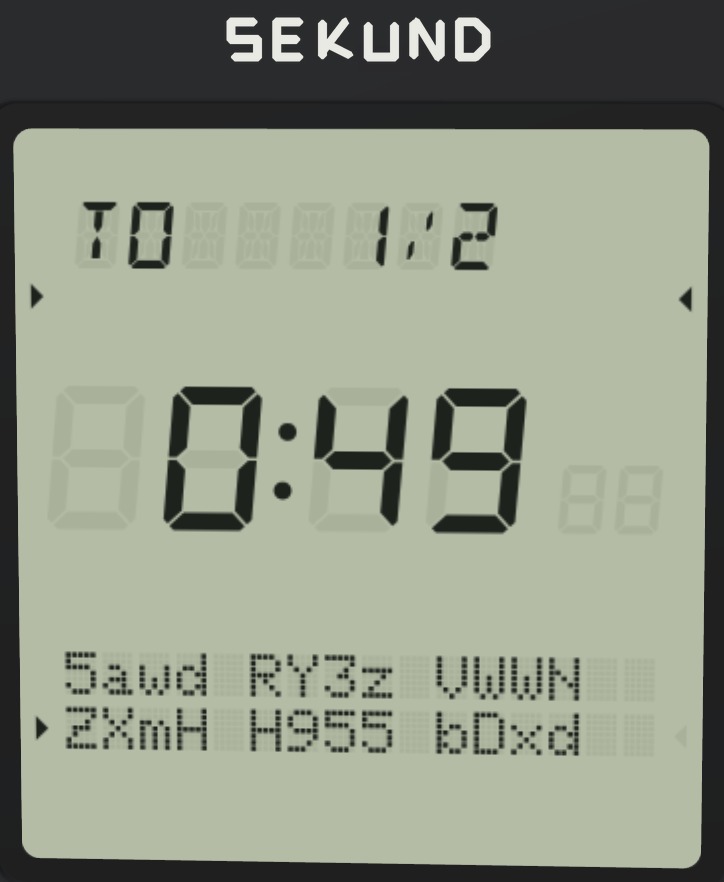
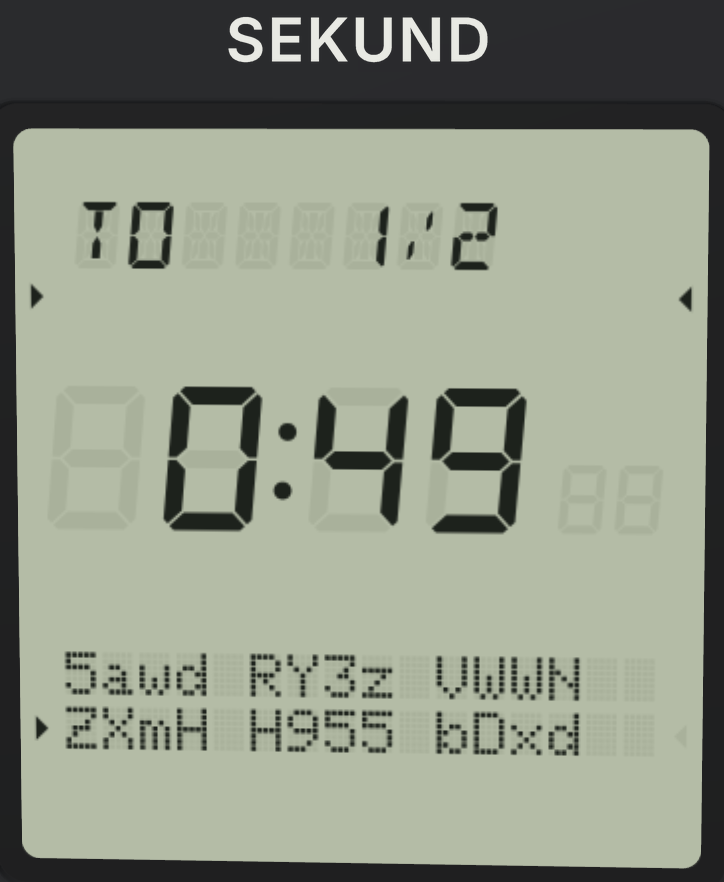
Set the SEKUND wordmark in Inter SemiBold everywhere and light the hero LCD
Goran's picks. The wordmark is Inter 600 with +4% tracking, converted to
outlines from the self-hosted @fontsource/inter files (deck/src/brand/
wordmark-inter.ts, WORDMARK = INTER); the same outlines replace the v2
segment mark on the watch-sim face, the 3D bezel, its chrome and the
companion logo. The LCD crops on slides 3/4/9 and the bezel mark layers of
every illustration are re-composited with it. ILLUSTRATION = BROW_LIT: only
the resin is dithered, the LCD panel stays crisp.

Changed region(s): [[0.3039, 0.0, 0.6989, 0.0918]]

diff --git a/watch-sim/src/face/wordmark.ts b/watch-sim/src/face/wordmark.ts
@@ -1,4 +1,4 @@
-/** SEKUND wordmark v2 (DESIGN.md §1.1). Drawn, never set in a font. */
-export const WORDMARK_VIEWBOX = "0 0 606 152"
+/** SEKUND wordmark: Inter SemiBold (600) set as text with +4% tracking, converted to outlines from the self-hosted @fontsource/inter files. No cuts, slants or display gaps. Same outlines as deck/src/brand/wordmark-inter.ts; generated by internal/pitch-deck-v3-assets/inter-wordmark.py, do not edit by hand. */
+export const WORDMARK_VIEWBOX = "0 0 600 112"
 export const WORDMARK_PATH =
-  "M43.90,26.00 L49.05,32.00 L89.05,32.00 L95.90,26.00 L90.74,20.00 L50.74,20.00 Z M40.48,29.00 L33.63,35.00 L29.14,67.00 L34.29,73.00 L41.14,67.00 L45.63,35.00 Z M36.87,76.00 L42.03,82.00 L82.03,82.00 L88.87,76.00 L83.71,70.00 L43.71,70.00 Z M91.45,79.00 L84.61,85.00 L80.11,117.00 L85.26,123.00 L92.11,117.00 L96.61,85.00 Z M29.84,126.00 L35.00,132.00 L75.00,132.00 L81.84,126.00 L76.69,120.00 L36.69,120.00 Z M139.90,26.00 L145.05,32.00 L185.05,32.00 L191.90,26.00 L186.74,20.00 L146.74,20.00 Z M136.48,29.00 L129.63,35.00 L125.14,67.00 L130.29,73.00 L137.14,67.00 L141.63,35.00 Z M132.87,76.00 L138.03,82.00 L178.03,82.00 L184.87,76.00 L179.71,70.00 L139.71,70.00 Z M129.45,79.00 L122.61,85.00 L118.11,117.00 L123.26,123.00 L130.11,117.00 L134.61,85.00 Z M125.84,126.00 L131.00,132.00 L171.00,132.00 L177.84,126.00 L172.69,120.00 L132.69,120.00 Z M232.48,29.00 L225.63,35.00 L221.14,67.00 L226.29,73.00 L233.14,67.00 L237.63,35.00 Z M225.45,79.00 L218.61,85.00 L214.11,117.00 L219.26,123.00 L226.11,117.00 L230.61,85.00 Z M239.12,65.81 L247.49,66.44 L285.68,37.07 L287.50,28.61 L279.13,27.98 L240.93,57.35 Z M236.25,86.19 L235.69,94.65 L265.63,124.02 L274.18,123.39 L274.74,114.93 L244.80,85.56 Z M328.48,29.00 L321.63,35.00 L310.11,117.00 L315.26,123.00 L322.11,117.00 L333.63,35.00 Z M317.84,126.00 L323.00,132.00 L363.00,132.00 L369.84,126.00 L364.69,120.00 L324.69,120.00 Z M386.48,29.00 L379.63,35.00 L368.11,117.00 L373.26,123.00 L380.11,117.00 L391.63,35.00 Z M424.48,29.00 L417.63,35.00 L406.11,117.00 L411.26,123.00 L418.11,117.00 L429.63,35.00 Z M482.48,29.00 L475.63,35.00 L464.11,117.00 L469.26,123.00 L476.11,117.00 L487.63,35.00 Z M430.83,39.49 L427.50,47.69 L455.02,110.33 L462.91,112.51 L466.25,104.31 L438.72,41.67 Z M520.48,29.00 L513.63,35.00 L502.11,117.00 L507.26,123.00 L514.11,117.00 L525.63,35.00 Z M523.90,26.00 L529.05,32.00 L545.05,32.00 L551.90,26.00 L546.74,20.00 L530.74,20.00 Z M556.72,28.12 L555.53,36.61 L565.22,47.88 L573.70,47.88 L574.89,39.39 L565.21,28.12 Z M575.10,53.00 L568.26,59.00 L563.48,93.00 L568.64,99.00 L575.48,93.00 L580.26,59.00 Z M565.80,104.12 L557.31,104.12 L544.46,115.39 L543.26,123.88 L551.75,123.88 L564.60,112.61 Z M537.84,126.00 L532.69,120.00 L516.69,120.00 L509.84,126.00 L515.00,132.00 L531.00,132.00 Z"
+  "M44.79,107.54 L42.50,107.51 L40.27,107.40 L38.10,107.22 L35.99,106.96 L33.94,106.64 L31.96,106.24 L30.03,105.77 L28.17,105.22 L26.37,104.61 L24.62,103.92 L22.95,103.16 L21.35,102.34 L19.83,101.45 L18.37,100.49 L17.00,99.47 L15.70,98.39 L14.47,97.23 L13.32,96.02 L12.24,94.73 L11.23,93.38 L10.31,91.97 L9.48,90.50 L8.73,88.97 L8.08,87.38 L7.51,85.73 L7.03,84.02 L6.64,82.26 L6.34,80.43 L6.12,78.55 L6.00,76.60 L23.65,76.60 L23.77,77.63 L23.93,78.63 L24.14,79.59 L24.40,80.51 L24.71,81.40 L25.06,82.26 L25.46,83.08 L25.91,83.86 L26.40,84.61 L26.94,85.33 L27.52,86.01 L28.14,86.65 L28.79,87.26 L29.48,87.84 L30.21,88.37 L30.97,88.88 L31.77,89.34 L32.61,89.77 L33.48,90.17 L34.39,90.53 L35.33,90.86 L36.28,91.15 L37.26,91.40 L38.26,91.63 L39.27,91.81 L40.31,91.97 L41.37,92.09 L42.44,92.17 L43.54,92.22 L44.66,92.24 L45.83,92.22 L46.97,92.17 L48.08,92.08 L49.16,91.95 L50.22,91.79 L51.25,91.59 L52.25,91.35 L53.23,91.08 L54.17,90.77 L55.09,90.43 L55.98,90.05 L56.83,89.65 L57.63,89.21 L58.40,88.75 L59.13,88.26 L59.82,87.74 L60.47,87.19 L61.08,86.61 L61.64,86.00 L62.17,85.36 L62.66,84.70 L63.09,84.02 L63.48,83.32 L63.81,82.59 L64.09,81.85 L64.32,81.08 L64.50,80.30 L64.62,79.49 L64.70,78.66 L64.72,77.81 L64.70,77.05 L64.63,76.31 L64.52,75.60 L64.37,74.91 L64.16,74.26 L63.92,73.62 L63.62,73.02 L63.29,72.44 L62.90,71.89 L62.48,71.37 L62.01,70.87 L61.50,70.38 L60.96,69.91 L60.39,69.45 L59.78,69.01 L59.13,68.59 L58.44,68.18 L57.72,67.78 L56.96,67.40 L56.17,67.04 L55.34,66.69 L54.49,66.35 L53.61,66.01 L52.70,65.69 L51.76,65.37 L50.80,65.06 L49.81,64.76 L48.79,64.47 L47.74,64.19 L46.67,63.92 L35.33,60.97 L32.87,60.29 L30.53,59.55 L28.30,58.74 L26.17,57.86 L24.16,56.92 L22.26,55.92 L20.47,54.84 L18.79,53.71 L17.22,52.50 L15.77,51.23 L14.43,49.89 L13.24,48.47 L12.19,46.96 L11.28,45.37 L10.51,43.70 L9.87,41.95 L9.38,40.11 L9.03,38.20 L8.82,36.20 L8.75,34.12 L8.80,32.37 L8.94,30.67 L9.18,29.00 L9.51,27.39 L9.94,25.82 L10.47,24.29 L11.09,22.80 L11.80,21.36 L12.61,19.97 L13.52,18.62 L14.50,17.32 L15.56,16.08 L16.69,14.90 L17.89,13.78 L19.15,12.72 L20.49,11.72 L21.90,10.78 L23.37,9.90 L24.92,9.08 L26.54,8.32 L28.21,7.62 L29.93,7.00 L31.69,6.45 L33.50,5.97 L35.35,5.57 L37.24,5.24 L39.18,4.99 L41.16,4.80 L43.19,4.69 L45.26,4.66 L47.37,4.69 L49.43,4.81 L51.43,4.99 L53.38,5.25 L55.28,5.58 L57.12,5.99 L58.92,6.47 L60.66,7.02 L62.35,7.65 L63.99,8.35 L65.56,9.12 L67.07,9.94 L68.50,10.82 L69.87,11.75 L71.16,12.74 L72.38,13.79 L73.54,14.90 L74.62,16.06 L75.63,17.28 L76.57,18.55 L77.43,19.87 L78.21,21.23 L78.90,22.62 L79.50,24.05 L80.02,25.51 L80.45,27.01 L80.79,28.55 L81.05,30.13 L81.22,31.74 L81.30,33.38 L63.92,33.38 L63.74,32.12 L63.48,30.92 L63.12,29.78 L62.68,28.70 L62.15,27.67 L61.53,26.70 L60.83,25.79 L60.03,24.94 L59.15,24.15 L58.18,23.42 L57.14,22.75 L56.03,22.15 L54.87,21.62 L53.64,21.16 L52.35,20.77 L51.00,20.46 L49.59,20.21 L48.12,20.03 L46.59,19.93 L44.99,19.89 L43.88,19.91 L42.80,19.96 L41.75,20.05 L40.74,20.17 L39.75,20.32 L38.80,20.51 L37.87,20.73 L36.98,20.99 L36.12,21.28 L35.30,21.60 L34.50,21.96 L33.75,22.34 L33.03,22.74 L32.35,23.17 L31.70,23.63 L31.10,24.10 L30.53,24.61 L30.00,25.14 L29.51,25.69 L29.05,26.27 L28.64,26.87 L28.27,27.48 L27.94,28.12 L27.66,28.77 L27.42,29.44 L27.22,30.13 L27.07,30.83 L26.96,31.55 L26.89,32.29 L26.87,33.05 L26.90,33.86 L26.98,34.65 L27.11,35.41 L27.29,36.14 L27.52,36.84 L27.80,37.51 L28.14,38.15 L28.53,38.76 L28.97,39.34 L29.46,39.89 L29.99,40.42 L30.54,40.92 L31.13,41.41 L31.74,41.87 L32.38,42.31 L33.04,42.73 L33.73,43.12 L34.45,43.50 L35.19,43.86 L35.97,44.19 L36.75,44.50 L37.54,44.81 L38.33,45.10 L39.12,45.38 L39.92,45.65 L40.71,45.90 L41.51,46.15 L42.31,46.38 L43.12,46.60 L43.92,46.81 L53.25,49.22 L54.36,49.50 L55.46,49.79 L56.56,50.11 L57.65,50.43 L58.73,50.78 L59.81,51.15 L60.88,51.53 L61.95,51.93 L63.00,52.34 L64.05,52.78 L65.09,53.23 L66.11,53.71 L67.10,54.21 L68.08,54.74 L69.03,55.29 L69.96,55.86 L70.87,56.45 L71.76,57.07 L72.63,57.72 L73.48,58.38 L74.31,59.07 L75.09,59.80 L75.85,60.55 L76.57,61.32 L77.25,62.13 L77.90,62.97 L78.52,63.83 L79.10,64.73 L79.65,65.65 L80.16,66.60 L80.63,67.59 L81.06,68.60 L81.43,69.65 L81.75,70.74 L82.02,71.86 L82.25,73.01 L82.42,74.19 L82.54,75.41 L82.62,76.66 L82.64,77.95 L82.60,79.68 L82.46,81.38 L82.24,83.03 L81.92,84.64 L81.52,86.21 L81.03,87.74 L80.44,89.22 L79.77,90.66 L79.00,92.06 L78.15,93.42 L77.21,94.72 L76.19,95.97 L75.09,97.16 L73.92,98.29 L72.66,99.36 L71.33,100.37 L69.91,101.32 L68.42,102.21 L66.85,103.04 L65.19,103.82 L63.47,104.53 L61.67,105.16 L59.81,105.72 L57.87,106.20 L55.87,106.61 L53.79,106.95 L51.65,107.21 L49.43,107.39 L47.15,107.51 Z M104.59,106.00 L104.59,6.00 L169.55,6.00 L169.55,21.10 L122.50,21.10 L122.50,48.08 L166.06,48.08 L166.06,62.98 L122.50,62.98 L122.50,90.90 L169.82,90.90 L169.82,106.00 Z M224.82,61.10 L211.22,75.95 L211.22,106.00 L193.30,106.00 L193.30,6.00 L211.22,6.00 L211.22,35.66 L210.93,57.06 L211.35,56.42 L211.97,55.48 L212.60,54.56 L213.23,53.64 L213.86,52.72 L214.51,51.81 L215.16,50.90 L215.82,49.98 L216.49,49.08 L217.17,48.17 L217.85,47.27 L218.54,46.36 L219.24,45.46 L219.96,44.56 L220.69,43.64 L221.43,42.72 L222.20,41.78 L222.98,40.83 L223.77,39.87 L224.59,38.90 L225.42,37.92 L226.27,36.93 L227.13,35.93 L253.37,6.00 L275.65,6.00 L237.28,49.29 L276.32,106.00 L255.18,106.00 Z M335.98,107.48 L333.57,107.43 L331.22,107.29 L328.93,107.06 L326.71,106.74 L324.54,106.33 L322.44,105.82 L320.40,105.22 L318.42,104.53 L316.50,103.75 L314.64,102.88 L312.86,101.92 L311.15,100.90 L309.53,99.80 L307.99,98.63 L306.54,97.39 L305.16,96.08 L303.87,94.70 L302.66,93.25 L301.53,91.72 L300.48,90.13 L299.52,88.47 L298.67,86.77 L297.91,85.01 L297.26,83.20 L296.71,81.34 L296.25,79.44 L295.90,77.48 L295.65,75.47 L295.50,73.41 L295.45,71.30 L295.45,6.00 L313.37,6.00 L313.37,69.83 L313.39,71.06 L313.48,72.27 L313.62,73.45 L313.81,74.60 L314.06,75.73 L314.37,76.83 L314.73,77.91 L315.15,78.95 L315.62,79.97 L316.15,80.97 L316.73,81.93 L317.36,82.84 L318.03,83.72 L318.74,84.55 L319.51,85.34 L320.32,86.08 L321.17,86.79 L322.07,87.45 L323.01,88.07 L324.00,88.65 L325.04,89.18 L326.10,89.65 L327.21,90.07 L328.35,90.43 L329.53,90.74 L330.75,90.99 L332.00,91.19 L333.29,91.32 L334.62,91.41 L335.98,91.44 L337.35,91.41 L338.68,91.32 L339.97,91.19 L341.22,90.99 L342.44,90.74 L343.61,90.43 L344.76,90.07 L345.86,89.65 L346.93,89.18 L347.96,88.65 L348.95,88.07 L349.90,87.45 L350.80,86.79 L351.65,86.08 L352.46,85.34 L353.22,84.55 L353.94,83.72 L354.61,82.84 L355.24,81.93 L355.82,80.97 L356.35,79.97 L356.82,78.95 L357.24,77.91 L357.60,76.83 L357.91,75.73 L358.16,74.60 L358.35,73.45 L358.49,72.27 L358.57,71.06 L358.60,69.83 L358.60,6.00 L376.52,6.00 L376.52,71.30 L376.47,73.41 L376.32,75.47 L376.06,77.48 L375.71,79.44 L375.25,81.34 L374.70,83.20 L374.04,85.01 L373.28,86.77 L372.42,88.47 L371.45,90.13 L370.40,91.72 L369.27,93.25 L368.05,94.70 L366.76,96.08 L365.38,97.39 L363.92,98.63 L362.39,99.80 L360.77,100.90 L359.07,101.92 L357.29,102.88 L355.44,103.75 L353.53,104.53 L351.56,105.22 L349.52,105.82 L347.42,106.33 L345.26,106.74 L343.03,107.06 L340.74,107.29 L338.40,107.43 Z M402.09,106.00 L402.09,6.00 L422.35,6.00 L456.92,61.10 L457.35,61.79 L457.79,62.51 L458.23,63.24 L458.68,63.98 L459.13,64.75 L459.59,65.53 L460.06,66.34 L460.53,67.16 L461.00,68.00 L461.48,68.85 L461.97,69.73 L462.46,70.62 L462.95,71.54 L463.45,72.48 L463.95,73.43 L464.45,74.41 L464.96,75.41 L465.48,76.42 L465.99,77.46 L466.52,78.52 L467.04,79.60 L467.56,80.70 L468.08,81.82 L468.60,82.97 L469.12,84.15 L469.20,84.35 L469.14,83.49 L469.06,82.32 L468.98,81.15 L468.91,79.97 L468.83,78.79 L468.76,77.60 L468.69,76.43 L468.63,75.28 L468.57,74.13 L468.51,73.00 L468.46,71.88 L468.41,70.77 L468.37,69.67 L468.33,68.58 L468.29,67.51 L468.26,66.46 L468.23,65.44 L468.21,64.46 L468.19,63.50 L468.17,62.59 L468.15,61.70 L468.14,60.85 L468.13,60.03 L468.13,59.24 L468.13,58.48 L468.13,6.00 L486.31,6.00 L486.31,106.00 L465.98,106.00 L434.77,56.40 L434.18,55.45 L433.60,54.50 L433.03,53.56 L432.46,52.61 L431.90,51.67 L431.35,50.73 L430.80,49.80 L430.26,48.86 L429.73,47.93 L429.20,47.01 L428.67,46.07 L428.14,45.11 L427.59,44.12 L427.04,43.11 L426.48,42.07 L425.91,41.01 L425.34,39.93 L424.75,38.82 L424.16,37.69 L423.56,36.54 L422.95,35.34 L422.30,34.10 L421.64,32.82 L420.94,31.48 L420.22,30.09 L419.48,28.66 L419.10,27.92 L419.11,28.17 L419.18,29.57 L419.26,30.94 L419.33,32.31 L419.40,33.65 L419.47,34.99 L419.54,36.30 L419.60,37.60 L419.67,38.86 L419.73,40.10 L419.79,41.32 L419.85,42.50 L419.90,43.66 L419.96,44.79 L420.01,45.89 L420.06,46.97 L420.11,48.01 L420.15,49.03 L420.19,50.00 L420.23,50.93 L420.26,51.83 L420.28,52.68 L420.30,53.49 L420.32,54.26 L420.33,54.99 L420.34,55.68 L420.34,56.34 L420.34,106.00 Z M520.47,106.00 L511.95,106.00 L511.95,6.00 L519.93,6.00 L529.87,6.00 L546.44,6.00 L549.38,6.06 L552.23,6.24 L555.00,6.54 L557.69,6.96 L560.29,7.49 L562.80,8.15 L565.23,8.93 L567.58,9.82 L569.84,10.84 L572.01,11.97 L574.10,13.22 L576.08,14.57 L577.97,16.03 L579.76,17.59 L581.45,19.26 L583.04,21.03 L584.54,22.90 L585.93,24.88 L587.23,26.97 L588.42,29.15 L589.51,31.44 L590.49,33.81 L591.35,36.27 L592.10,38.81 L592.73,41.44 L593.24,44.15 L593.64,46.95 L593.93,49.84 L594.10,52.81 L594.16,55.87 L594.10,58.95 L593.93,61.94 L593.64,64.85 L593.24,67.67 L592.73,70.40 L592.10,73.05 L591.35,75.60 L590.49,78.07 L589.51,80.45 L588.42,82.74 L587.22,84.94 L585.92,87.03 L584.52,89.02 L583.02,90.90 L581.41,92.68 L579.70,94.35 L577.89,95.92 L575.98,97.38 L573.96,98.74 L571.85,99.99 L569.63,101.13 L567.33,102.16 L564.95,103.06 L562.47,103.84 L559.91,104.50 L557.26,105.04 L554.52,105.46 L551.69,105.76 L548.77,105.94 L545.77,106.00 L529.87,106.00 Z M529.87,90.50 L544.90,90.50 L546.96,90.46 L548.95,90.34 L550.87,90.15 L552.72,89.88 L554.51,89.53 L556.22,89.11 L557.86,88.61 L559.44,88.03 L560.95,87.37 L562.38,86.64 L563.75,85.83 L565.05,84.94 L566.28,83.98 L567.44,82.94 L568.53,81.82 L569.55,80.63 L570.51,79.36 L571.39,78.01 L572.21,76.59 L572.95,75.09 L573.63,73.52 L574.23,71.87 L574.77,70.14 L575.23,68.33 L575.62,66.44 L575.94,64.48 L576.19,62.44 L576.37,60.33 L576.47,58.14 L576.51,55.87 L576.47,53.62 L576.37,51.45 L576.19,49.36 L575.94,47.34 L575.62,45.40 L575.23,43.53 L574.77,41.73 L574.23,40.02 L573.63,38.37 L572.95,36.81 L572.21,35.31 L571.40,33.90 L570.52,32.56 L569.58,31.30 L568.57,30.11 L567.49,29.00 L566.35,27.97 L565.14,27.01 L563.86,26.13 L562.52,25.33 L561.11,24.60 L559.63,23.95 L558.08,23.38 L556.47,22.88 L554.79,22.46 L553.04,22.12 L551.23,21.85 L549.34,21.66 L547.39,21.54 L545.37,21.50 L529.87,21.50 Z"

diff --git a/deck/src/brand/wordmark-inter.ts b/deck/src/brand/wordmark-inter.ts
@@ -1,0 +1,14 @@
+import type { WordmarkSpec } from "./types";
+
+/** Option E: Inter. Inter SemiBold (600) set as text with +4% tracking, converted to outlines from the self-hosted @fontsource/inter files. No cuts, slants or display gaps. Generated by internal/pitch-deck-v3-assets/inter-wordmark.py; do not edit by hand. */
+export const INTER: WordmarkSpec = {
+  id: "inter",
+  label: "E",
+  name: "Inter",
+  note: "Inter SemiBold (600) set as text with +4% tracking, converted to outlines from the self-hosted @fontsource/inter files. No cuts, slants or display gaps.",
+  viewBox: "0 0 600 112",
+  width: 600,
+  height: 112,
+  path:
+    "M44.79,107.54 L42.50,107.51 L40.27,107.40 L38.10,107.22 L35.99,106.96 L33.94,106.64 L31.96,106.24 L30.03,105.77 L28.17,105.22 L26.37,104.61 L24.62,103.92 L22.95,103.16 L21.35,102.34 L19.83,101.45 L18.37,100.49 L17.00,99.47 L15.70,98.39 L14.47,97.23 L13.32,96.02 L12.24,94.73 L11.23,93.38 L10.31,91.97 L9.48,90.50 L8.73,88.97 L8.08,87.38 L7.51,85.73 L7.03,84.02 L6.64,82.26 L6.34,80.43 L6.12,78.55 L6.00,76.60 L23.65,76.60 L23.77,77.63 L23.93,78.63 L24.14,79.59 L24.40,80.51 L24.71,81.40 L25.06,82.26 L25.46,83.08 L25.91,83.86 L26.40,84.61 L26.94,85.33 L27.52,86.01 L28.14,86.65 L28.79,87.26 L29.48,87.84 L30.21,88.37 L30.97,88.88 L31.77,89.34 L32.61,89.77 L33.48,90.17 L34.39,90.53 L35.33,90.86 L36.28,91.15 L37.26,91.40 L38.26,91.63 L39.27,91.81 L40.31,91.97 L41.37,92.09 L42.44,92.17 L43.54,92.22 L44.66,92.24 L45.83,92.22 L46.97,92.17 L48.08,92.08 L49.16,91.95 L50.22,91.79 L51.25,91.59 L52.25,91.35 L53.23,91.08 L54.17,90.77 L55.09,90.43 L55.98,90.05 L56.83,89.65 L57.63,89.21 L58.40,88.75 L59.13,88.26 L59.82,87.74 L60.47,87.19 L61.08,86.61 L61.64,86.00 L62.17,85.36 L62.66,84.70 L63.09,84.02 L63.48,83.32 L63.81,82.59 L64.09,81.85 L64.32,81.08 L64.50,80.30 L64.62,79.49 L64.70,78.66 L64.72,77.81 L64.70,77.05 L64.63,76.31 L64.52,75.60 L64.37,74.91 L64.16,74.26 L63.92,73.62 L63.62,73.02 L63.29,72.44 L62.90,71.89 L62.48,71.37 L62.01,70.87 L61.50,70.38 L60.96,69.91 L60.39,69.45 L59.78,69.01 L59.13,68.59 L58.44,68.18 L57.72,67.78 L56.96,67.40 L56.17,67.04 L55.34,66.69 L54.49,66.35 L53.61,66.01 L52.70,65.69 L51.76,65.37 L50.80,65.06 L49.81,64.76 L48.79,64.47 L47.74,64.19 L46.67,63.92 L35.33,60.97 L32.87,60.29 L30.53,59.55 L28.30,58.74 L26.17,57.86 L24.16,56.92 L22.26,55.92 L20.47,54.84 L18.79,53.71 L17.22,52.50 L15.77,51.23 L14.43,49.89 L13.24,48.47 L12.19,46.96 L11.28,45.37 L10.51,43.70 L9.87,41.95 L9.38,40.11 L9.03,38.20 L8.82,36.20 L8.75,34.12 L8.80,32.37 L8.94,30.67 L9.18,29.00 L9.51,27.39 L9.94,25.82 L10.47,24.29 L11.09,22.80 L11.80,21.36 L12.61,19.97 L13.52,18.62 L14.50,17.32 L15.56,16.08 L16.69,14.90 L17.89,13.78 L19.15,12.72 L20.49,11.72 L21.90,10.78 L23.37,9.90 L24.92,9.08 L26.54,8.32 L28.21,7.62 L29.93,7.00 L31.69,6.45 L33.50,5.97 L35.35,5.57 L37.24,5.24 L39.18,4.99 L41.16,4.80 L43.19,4.69 L45.26,4.66 L47.37,4.69 L49.43,4.81 L51.43,4.99 L53.38,5.25 L55.28,5.58 L57.12,5.99 L58.92,6.47 L60.66,7.02 L62.35,7.65 L63.99,8.35 L65.56,9.12 L67.07,9.94 L68.50,10.82 L69.87,11.75 L71.16,12.74 L72.38,13.79 L73.54,14.90 L74.62,16.06 L75.63,17.28 L76.57,18.55 L77.43,19.87 L78.21,21.23 L78.90,22.62 L79.50,24.05 L80.02,25.51 L80.45,27.01 L80.79,28.55 L81.05,30.13 L81.22,31.74 L81.30,33.38 L63.92,33.38 L63.74,32.12 L63.48,30.92 L63.12,29.78 L62.68,28.70 L62.15,27.67 L61.53,26.70 L60.83,25.79 L60.03,24.94 L59.15,24.15 L58.18,23.42 L57.14,22.75 L56.03,22.15 L54.87,21.62 L53.64,21.16 L52.35,20.77 L51.00,20.46 L49.59,20.21 L48.12,20.03 L46.59,19.93 L44.99,19.89 L43.88,19.91 L42.80,19.96 L41.75,20.05 L40.74,20.17 L39.75,20.32 L38.80,20.51 L37.87,20.73 L36.98,20.99 L36.12,21.28 L35.30,21.60 L34.50,21.96 L33.75,22.34 L33.03,22.74 L32.35,23.17 L31.70,23.63 L31.10,24.10 L30.53,24.61 L30.00,25.14 L29.51,25.69 L29.05,26.27 L28.64,26.87 L28.27,27.48 L27.94,28.12 L27.66,28.77 L27.42,29.44 L27.22,30.13 L27.07,30.83 L26.96,31.55 L26.89,32.29 L26.87,33.05 L26.90,33.86 L26.98,34.65 L27.11,35.41 L27.29,36.14 L27.52,36.84 L27.80,37.51 L28.14,38.15 L28.53,38.76 L28.97,39.34 L29.46,39.89 L29.99,40.42 L30.54,40.92 L31.13,41.41 L31.74,41.87 L32.38,42.31 L33.04,42.73 L33.73,43.12 L34.45,43.50 L35.19,43.86 L35.97,44.19 L36.75,44.50 L37.54,44.81 L38.33,45.10 L39.12,45.38 L39.92,45.65 L40.71,45.90 L41.51,46.15 L42.31,46.38 L43.12,46.60 L43.92,46.81 L53.25,49.22 L54.36,49.50 L55.46,49.79 L56.56,50.11 L57.65,50.43 L58.73,50.78 L59.81,51.15 L60.88,51.53 L61.95,51.93 L63.00,52.34 L64.05,52.78 L65.09,53.23 L66.11,53.71 L67.10,54.21 L68.08,54.74 L69.03,55.29 L69.96,55.86 L70.87,56.45 L71.76,57.07 L72.63,57.72 L73.48,58.38 L74.31,59.07 L75.09,59.80 L75.85,60.55 L76.57,61.32 L77.25,62.13 L77.90,62.97 L78.52,63.83 L79.10,64.73 L79.65,65.65 L80.16,66.60 L80.63,67.59 L81.06,68.60 L81.43,69.65 L81.75,70.74 L82.02,71.86 L82.25,73.01 L82.42,74.19 L82.54,75.41 L82.62,76.66 L82.64,77.95 L82.60,79.68 L82.46,81.38 L82.24,83.03 L81.92,84.64 L81.52,86.21 L81.03,87.74 L80.44,89.22 L79.77,90.66 L79.00,92.06 L78.15,93.42 L77.21,94.72 L76.19,95.97 L75.09,97.16 L73.92,98.29 L72.66,99.36 L71.33,100.37 L69.91,101.32 L68.42,102.21 L66.85,103.04 L65.19,103.82 L63.47,104.53 L61.67,105.16 L59.81,105.72 L57.87,106.20 L55.87,106.61 L53.79,106.95 L51.65,107.21 L49.43,107.39 L47.15,107.51 Z M104.59,106.00 L104.59,6.00 L169.55,6.00 L169.55,21.10 L122.50,21.10 L122.50,48.08 L166.06,48.08 L166.06,62.98 L122.50,62.98 L122.50,90.90 L169.82,90.90 L169.82,106.00 Z M224.82,61.10 L211.22,75.95 L211.22,106.00 L193.30,106.00 L193.30,6.00 L211.22,6.00 L211.22,35.66 L210.93,57.06 L211.35,56.42 L211.97,55.48 L212.60,54.56 L213.23,53.64 L213.86,52.72 L214.51,51.81 L215.16,50.90 L215.82,49.98 L216.49,49.08 L217.17,48.17 L217.85,47.27 L218.54,46.36 L219.24,45.46 L219.96,44.56 L220.69,43.64 L221.43,42.72 L222.20,41.78 L222.98,40.83 L223.77,39.87 L224.59,38.90 L225.42,37.92 L226.27,36.93 L227.13,35.93 L253.37,6.00 L275.65,6.00 L237.28,49.29 L276.32,106.00 L255.18,106.00 Z M335.98,107.48 L333.57,107.43 L331.22,107.29 L328.93,107.06 L326.71,106.74 L324.54,106.33 L322.44,105.82 L320.40,105.22 L318.42,104.53 L316.50,103.75 L314.64,102.88 L312.86,101.92 L311.15,100.90 L309.53,99.80 L307.99,98.63 L306.54,97.39 L305.16,96.08 L303.87,94.70 L302.66,93.25 L301.53,91.72 L300.48,90.13 L299.52,88.47 L298.67,86.77 L297.91,85.01 L297.26,83.20 L296.71,81.34 L296.25,79.44 L295.90,77.48 L295.65,75.47 L295.50,73.41 L295.45,71.30 L295.45,6.00 L313.37,6.00 L313.37,69.83 L313.39,71.06 L313.48,72.27 L313.62,73.45 L313.81,74.60 L314.06,75.73 L314.37,76.83 L314.73,77.91 L315.15,78.95 L315.62,79.97 L316.15,80.97 L316.73,81.93 L317.36,82.84 L318.03,83.72 L318.74,84.55 L319.51,85.34 L320.32,86.08 L321.17,86.79 L322.07,87.45 L323.01,88.07 L324.00,88.65 L325.04,89.18 L326.10,89.65 L327.21,90.07 L328.35,90.43 L329.53,90.74 L330.75,90.99 L332.00,91.19 L333.29,91.32 L334.62,91.41 L335.98,91.44 L337.35,91.41 L338.68,91.32 L339.97,91.19 L341.22,90.99 L342.44,90.74 L343.61,90.43 L344.76,90.07 L345.86,89.65 L346.93,89.18 L347.96,88.65 L348.95,88.07 L349.90,87.45 L350.80,86.79 L351.65,86.08 L352.46,85.34 L353.22,84.55 L353.94,83.72 L354.61,82.84 L355.24,81.93 L355.82,80.97 L356.35,79.97 L356.82,78.95 L357.24,77.91 L357.60,76.83 L357.91,75.73 L358.16,74.60 L358.35,73.45 L358.49,72.27 L358.57,71.06 L358.60,69.83 L358.60,6.00 L376.52,6.00 L376.52,71.30 L376.47,73.41 L376.32,75.47 L376.06,77.48 L375.71,79.44 L375.25,81.34 L374.70,83.20 L374.04,85.01 L373.28,86.77 L372.42,88.47 L371.45,90.13 L370.40,91.72 L369.27,93.25 L368.05,94.70 L366.76,96.08 L365.38,97.39 L363.92,98.63 L362.39,99.80 L360.77,100.90 L359.07,101.92 L357.29,102.88 L355.44,103.75 L353.53,104.53 L351.56,105.22 L349.52,105.82 L347.42,106.33 L345.26,106.74 L343.03,107.06 L340.74,107.29 L338.40,107.43 Z M402.09,106.00 L402.09,6.00 L422.35,6.00 L456.92,61.10 L457.35,61.79 L457.79,62.51 L458.23,63.24 L458.68,63.98 L459.13,64.75 L459.59,65.53 L460.06,66.34 L460.53,67.16 L461.00,68.00 L461.48,68.85 L461.97,69.73 L462.46,70.62 L462.95,71.54 L463.45,72.48 L463.95,73.43 L464.45,74.41 L464.96,75.41 L465.48,76.42 L465.99,77.46 L466.52,78.52 L467.04,79.60 L467.56,80.70 L468.08,81.82 L468.60,82.97 L469.12,84.15 L469.20,84.35 L469.14,83.49 L469.06,82.32 L468.98,81.15 L468.91,79.97 L468.83,78.79 L468.76,77.60 L468.69,76.43 L468.63,75.28 L468.57,74.13 L468.51,73.00 L468.46,71.88 L468.41,70.77 L468.37,69.67 L468.33,68.58 L468.29,67.51 L468.26,66.46 L468.23,65.44 L468.21,64.46 L468.19,63.50 L468.17,62.59 L468.15,61.70 L468.14,60.85 L468.13,60.03 L468.13,59.24 L468.13,58.48 L468.13,6.00 L486.31,6.00 L486.31,106.00 L465.98,106.00 L434.77,56.40 L434.18,55.45 L433.60,54.50 L433.03,53.56 L432.46,52.61 L431.90,51.67 L431.35,50.73 L430.80,49.80 L430.26,48.86 L429.73,47.93 L429.20,47.01 L428.67,46.07 L428.14,45.11 L427.59,44.12 L427.04,43.11 L426.48,42.07 L425.91,41.01 L425.34,39.93 L424.75,38.82 L424.16,37.69 L423.56,36.54 L422.95,35.34 L422.30,34.10 L421.64,32.82 L420.94,31.48 L420.22,30.09 L419.48,28.66 L419.10,27.92 L419.11,28.17 L419.18,29.57 L419.26,30.94 L419.33,32.31 L419.40,33.65 L419.47,34.99 L419.54,36.30 L419.60,37.60 L419.67,38.86 L419.73,40.10 L419.79,41.32 L419.85,42.50 L419.90,43.66 L419.96,44.79 L420.01,45.89 L420.06,46.97 L420.11,48.01 L420.15,49.03 L420.19,50.00 L420.23,50.93 L420.26,51.83 L420.28,52.68 L420.30,53.49 L420.32,54.26 L420.33,54.99 L420.34,55.68 L420.34,56.34 L420.34,106.00 Z M520.47,106.00 L511.95,106.00 L511.95,6.00 L519.93,6.00 L529.87,6.00 L546.44,6.00 L549.38,6.06 L552.23,6.24 L555.00,6.54 L557.69,6.96 L560.29,7.49 L562.80,8.15 L565.23,8.93 L567.58,9.82 L569.84,10.84 L572.01,11.97 L574.10,13.22 L576.08,14.57 L577.97,16.03 L579.76,17.59 L581.45,19.26 L583.04,21.03 L584.54,22.90 L585.93,24.88 L587.23,26.97 L588.42,29.15 L589.51,31.44 L590.49,33.81 L591.35,36.27 L592.10,38.81 L592.73,41.44 L593.24,44.15 L593.64,46.95 L593.93,49.84 L594.10,52.81 L594.16,55.87 L594.10,58.95 L593.93,61.94 L593.64,64.85 L593.24,67.67 L592.73,70.40 L592.10,73.05 L591.35,75.60 L590.49,78.07 L589.51,80.45 L588.42,82.74 L587.22,84.94 L585.92,87.03 L584.52,89.02 L583.02,90.90 L581.41,92.68 L579.70,94.35 L577.89,95.92 L575.98,97.38 L573.96,98.74 L571.85,99.99 L569.63,101.13 L567.33,102.16 L564.95,103.06 L562.47,103.84 L559.91,104.50 L557.26,105.04 L554.52,105.46 L551.69,105.76 L548.77,105.94 L545.77,106.00 L529.87,106.00 Z M529.87,90.50 L544.90,90.50 L546.96,90.46 L548.95,90.34 L550.87,90.15 L552.72,89.88 L554.51,89.53 L556.22,89.11 L557.86,88.61 L559.44,88.03 L560.95,87.37 L562.38,86.64 L563.75,85.83 L565.05,84.94 L566.28,83.98 L567.44,82.94 L568.53,81.82 L569.55,80.63 L570.51,79.36 L571.39,78.01 L572.21,76.59 L572.95,75.09 L573.63,73.52 L574.23,71.87 L574.77,70.14 L575.23,68.33 L575.62,66.44 L575.94,64.48 L576.19,62.44 L576.37,60.33 L576.47,58.14 L576.51,55.87 L576.47,53.62 L576.37,51.45 L576.19,49.36 L575.94,47.34 L575.62,45.40 L575.23,43.53 L574.77,41.73 L574.23,40.02 L573.63,38.37 L572.95,36.81 L572.21,35.31 L571.40,33.90 L570.52,32.56 L569.58,31.30 L568.57,30.11 L567.49,29.00 L566.35,27.97 L565.14,27.01 L563.86,26.13 L562.52,25.33 L561.11,24.60 L559.63,23.95 L558.08,23.38 L556.47,22.88 L554.79,22.46 L553.04,22.12 L551.23,21.85 L549.34,21.66 L547.39,21.54 L545.37,21.50 L529.87,21.50 Z",
+};

diff --git a/deck/src/brand/index.ts b/deck/src/brand/index.ts
@@ -1,14 +1,15 @@
 import { BLOCK } from "./wordmark-block";
 import { CHAMFER } from "./wordmark-chamfer";
 import { DOTS } from "./wordmark-dots";
+import { INTER } from "./wordmark-inter";
 import { ROUND } from "./wordmark-round";
 import { SEGMENT } from "./wordmark-segment";
 
 export type { WordmarkSpec } from "./types";
-export { BLOCK, CHAMFER, DOTS, ROUND, SEGMENT };
+export { BLOCK, CHAMFER, DOTS, INTER, ROUND, SEGMENT };
 
-/** The wordmark the deck draws everywhere. Swap the import to change it. */
-export const WORDMARK = CHAMFER;
+/** The wordmark the deck draws everywhere. Swap the import to change it. Goran's pick: Inter SemiBold. */
+export const WORDMARK = INTER;
 
-/** The four directions on the option sheet, in sheet order. */
-export const WORDMARK_OPTIONS = [BLOCK, CHAMFER, ROUND, DOTS] as const;
+/** The directions on the option sheet, in sheet order: the four drawn proposals and the chosen typeset mark. */
+export const WORDMARK_OPTIONS = [BLOCK, CHAMFER, ROUND, DOTS, INTER] as const;

diff --git a/deck/src/deck/Options.tsx b/deck/src/deck/Options.tsx
@@ -71,10 +71,16 @@ export function LogoOptions() {
             <span className="opt__letter">{spec.label}</span>
             <h2 className="opt__name">{spec.name}</h2>
             <p className="caption">{spec.note}</p>
-            {spec.id === WORDMARK.id && <span className="opt__tag">Recommended · live on the deck</span>}
+            {spec.id === WORDMARK.id && <span className="opt__tag">Chosen · live on the deck</span>}
           </div>
           <div className="opt__cell opt__cell--ink">
             <Wordmark spec={spec} width={480} />
+            {spec.id === "inter" && (
+              <span className="opt__live" aria-hidden>
+                SEKUND
+                <span className="caption">Set live in Inter 600, +0.04em, as the outlines were made</span>
+              </span>
+            )}
           </div>
           <div className="opt__cell opt__cell--stack">
             <div className="opt__paper">

diff --git a/companion/src/App.tsx b/companion/src/App.tsx
@@ -74,7 +74,7 @@ export default function App() {
       <header className="border-b border-rule">
         <div className="mx-auto flex min-h-14 max-w-(--sk-content-max) flex-wrap items-center justify-between gap-x-4 gap-y-2 px-(--sk-margin) py-2">
           <a href="/" className="sk-plate shrink-0" aria-label="SEKUND companion">
-            <img src="/sekund-logo-v2.svg" alt="SEKUND" width={96} height={24} className="sk-logo h-6 w-24" />
+            <img src="/sekund-logo.svg" alt="SEKUND" width={96} height={24} className="sk-logo h-6 w-24" />
           </a>
           <div className="flex flex-wrap items-center gap-x-3 gap-y-2">
             <StatusChip word={relay === "open" && watchConnected ? "CONNECTED" : "NO WATCH"} />

diff --git a/deck/src/brand/illustrations.ts b/deck/src/brand/illustrations.ts
@@ -108,8 +108,8 @@ export const BROW_LIT: IllustrationSpec = {
   approveLcdSrc: "/assets/watch-d-approve-lcd.png",
 };
 
-/** The illustration slides 1 and 10 draw. Swap the constant to change it (`BROW_LIT` for the crisp LCD). */
-export const ILLUSTRATION = BROW;
+/** The illustration slides 1 and 10 draw. Swap the constant to change it (`BROW` for the fully dithered one). Goran's pick: the lit LCD. */
+export const ILLUSTRATION = BROW_LIT;
 
 /** The candidates on the option sheet, in sheet order. */
 export const ILLUSTRATION_OPTIONS: readonly IllustrationSpec[] = [FACETED, FRONTAL, TURNED, BROW];

diff --git a/deck/src/styles/deck.css b/deck/src/styles/deck.css
@@ -733,6 +733,19 @@ a {
   min-height: 200px;
 }
 
+/* The chosen mark set live in the self-hosted face, under its outline version, so the two can be compared. */
+.opt__live {
+  display: flex;
+  flex-direction: column;
+  gap: 6px;
+  margin-top: 18px;
+  font-family: "Inter", sans-serif;
+  font-weight: 600;
+  font-size: 110px; /* Inter's cap height is 0.7275 em: 110 px gives the 80 px cap of the 480 px outline above */
+  line-height: 1;
+  letter-spacing: 0.04em;
+}
+
 .opt__cell--stack {
   gap: 16px;
 }

diff --git a/deck/src/main.tsx b/deck/src/main.tsx
@@ -1,6 +1,9 @@
 import { StrictMode } from "react";
 import { createRoot } from "react-dom/client";
 import App from "./App";
+// Self-hosted Inter SemiBold: the wordmark is set in it (as outlines in src/brand/wordmark-inter.ts);
+// the face itself is only drawn live on the ?logos sheet, as the reference the outlines are checked against.
+import "@fontsource/inter/latin-600.css";
 import "./styles/deck.css";
 
 createRoot(document.getElementById("root")!).render(
